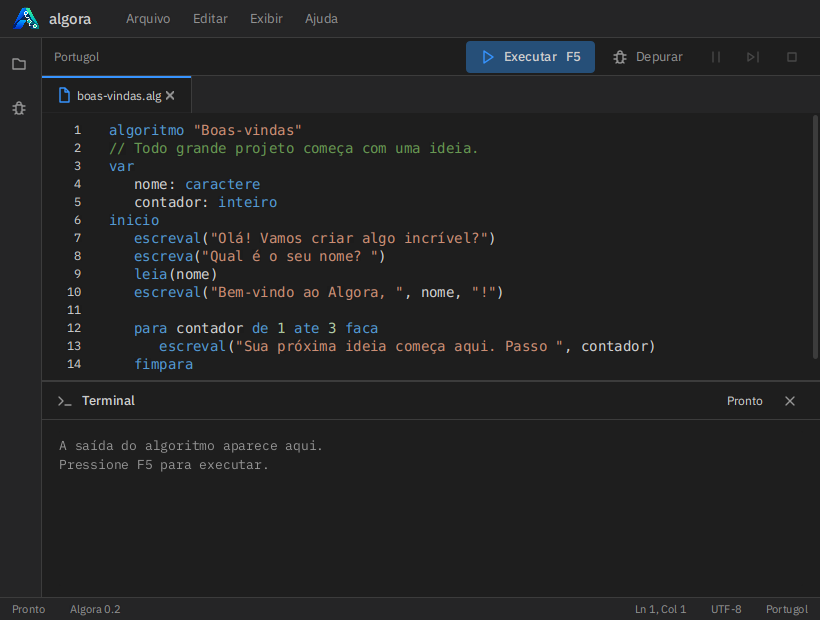
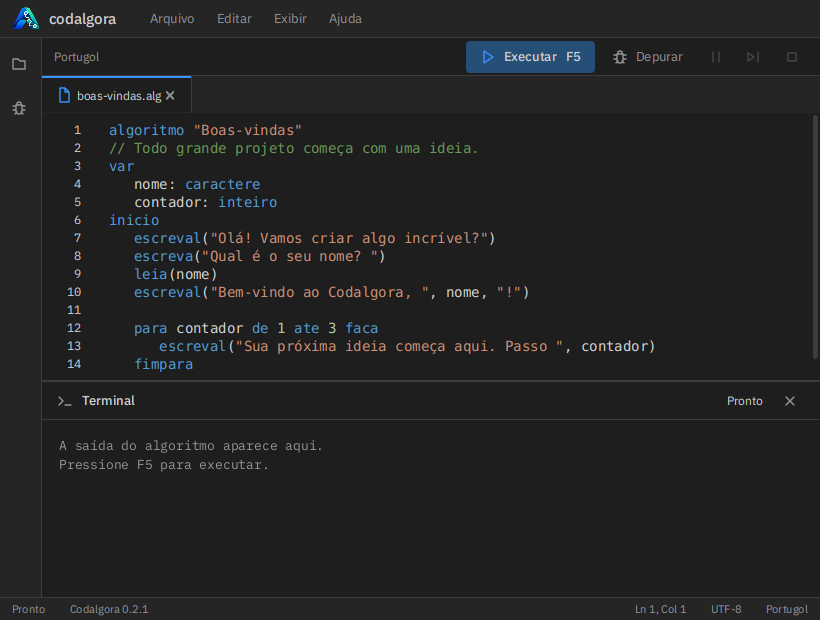
chore(release): finalize Codalgora 0.2.1 distribution assets

Changed region(s): [[0.061, 0.0, 0.4268, 0.0613], [0.3963, 0.4597, 0.6402, 0.4903], [0.0915, 0.9806, 0.1829, 1.0]]

diff --git a/desktop/packaging/create-checksums.py b/desktop/packaging/create-checksums.py
@@ -1,0 +1,21 @@
+"""Write SHA256SUMS.txt for generated installer files in a package directory."""
+
+import hashlib
+import pathlib
+import sys
+
+directory = pathlib.Path(sys.argv[1])
+installers = sorted(
+    path
+    for path in directory.iterdir()
+    if path.is_file() and path.suffix.lower() in {".deb", ".exe", ".msi"}
+)
+if not installers:
+    raise SystemExit(f"No installers found in {directory}")
+
+lines = []
+for installer in installers:
+    digest = hashlib.sha256(installer.read_bytes()).hexdigest()
+    lines.append(f"{digest}  {installer.name}")
+(directory / "SHA256SUMS.txt").write_text("\n".join(lines) + "\n", encoding="ascii")
+print("\n".join(lines))

diff --git a/docs/instalacao.md b/docs/instalacao.md
@@ -1,6 +1,6 @@
 # Instalação e desenvolvimento
 
-O Codalgora usa Java 21, JavaFX 21, ANTLR4 e RichTextFX. O build utiliza Gradle Wrapper com Kotlin DSL; não é necessário instalar Gradle globalmente. A primeira execução precisa de rede para baixar a distribuição e as dependências. Um JDK completo, com `jpackage`, é necessário para gerar pacotes.
+O Codalgora usa Java 21, JavaFX 21, ANTLR4 e RichTextFX. A versão em preparação é 0.2.1; ainda não há instaladores Codalgora dessa versão publicados. A release histórica v0.2.0 contém os instaladores da marca Algora. O build utiliza Gradle Wrapper com Kotlin DSL; não é necessário instalar Gradle globalmente. A primeira execução precisa de rede para baixar a distribuição e as dependências. Um JDK completo, com `jpackage`, é necessário para gerar pacotes.
 
 ## Desenvolvimento
 
@@ -41,7 +41,7 @@ O build, os testes JavaFX e a execução da aplicação nativa com runtime inclu
 
 ## Ícone do aplicativo
 
-Os builds usam o emblema da logo oficial: PNG no Linux e ICO com múltiplas resoluções no Windows. O `jpackage` recebe o ícone tanto na aplicação quanto no instalador; a janela JavaFX também carrega o PNG. Os recursos ficam em `desktop/src/main/resources/io/codalgora/desktop/icons/`.
+Os builds Codalgora usam o emblema atualizado: PNG no Linux e ICO com múltiplas resoluções no Windows. O `jpackage` recebe o ícone tanto na aplicação quanto no instalador; a janela JavaFX carrega o recurso local. Os recursos ficam em `desktop/src/main/resources/io/codalgora/desktop/icons/`. Os instaladores históricos v0.2.0 ainda exibem a identidade Algora.
 
 Se você instalou um pacote anterior com o ícone padrão do Java, baixe o instalador atualizado da release e reinstale o aplicativo. Atalhos antigos criados manualmente podem precisar ser recriados; o ambiente desktop também pode manter o ícone antigo em cache até uma nova sessão.
 
@@ -53,21 +53,21 @@ O atalho distribuído no `.deb` declara `StartupWMClass=io.codalgora.desktop.Cod
 
 O CI instala o `.exe` silenciosamente, verifica o registro por usuário e os atalhos, executa a aplicação instalada e a desinstala. Os logs MSI ficam no artefato `Windows-installer-diagnostics` do workflow. Esse teste não substitui a validação dos diálogos interativos nem identifica problemas específicos de uma máquina sem a mensagem de erro correspondente.
 
-Para gerar um log local de instalação pelo PowerShell, no diretório do download:
+Para diagnosticar a instalação histórica Algora v0.2.0 pelo PowerShell, no diretório do download:
 
 ```powershell
-.\Codalgora-0.2.0.exe /L*v "$env:TEMP\codalgora-install.log"
+.\Algora-0.2.0.exe /L*v "$env:TEMP\algora-install.log"
 ```
 
 
 ### Instalador Windows em execução sem janela
 
-Se o `.exe` baixado ficar em execução sem mostrar a tela de instalação, use o pacote direto `Codalgora-0.2.0.msi` da mesma release. Esse formato evita o executável que extrai um MSI temporário e chama o Windows Installer. Se já houver uma instalação anterior de v0.2.0, remova-a em **Configurações → Aplicativos → Codalgora** antes de reinstalar um pacote revisado da mesma versão.
+Se o `.exe` histórico da v0.2.0 ficar em execução sem mostrar a tela de instalação, use o pacote direto `Algora-0.2.0.msi` da mesma release. Esse formato evita o executável que extrai um MSI temporário e chama o Windows Installer. Os dois instaladores pertencem à identidade Algora e não são os futuros pacotes Codalgora 0.2.1.
 
 O CI verifica a aparição do assistente visível dos dois formatos, cancela esse assistente e executa separadamente a instalação silenciosa, abertura do aplicativo e desinstalação. Capturas das telas, registros dos controles e logs MSI são mantidos no artefato `Windows-installer-diagnostics`.
 
 Para registrar uma falha na abertura do MSI pelo PowerShell:
 
 ```powershell
-msiexec.exe /i "$PWD\Codalgora-0.2.0.msi" /L*v "$env:TEMP\codalgora-msi.log"
+msiexec.exe /i "$PWD\Algora-0.2.0.msi" /L*v "$env:TEMP\algora-msi.log"
 ```

diff --git a/README.md b/README.md
@@ -5,7 +5,7 @@
 ![Java 21](https://img.shields.io/badge/Java-21-007396)
 ![Plataformas: Linux e Windows](https://img.shields.io/badge/plataformas-Linux%20%7C%20Windows-555555)
 
-> **Beta v0.2.1:** o Codalgora está em desenvolvimento ativo e pode apresentar bugs ou comportamentos inesperados. Esta versão oferece edição, execução e depuração de algoritmos em uma interface moderna.
+> **v0.2.1 em preparação:** o Codalgora está em desenvolvimento ativo e pode apresentar bugs ou comportamentos inesperados. A versão oferece edição, execução e depuração de algoritmos em uma interface moderna; seus instaladores ainda não foram publicados.
 
 <p align="center">
   <img src="docs/assets/codalgora-logo.png" alt="Logo do Codalgora" width="320">
@@ -15,7 +15,7 @@
 
 Idealizado e desenvolvido por **Arthur Almeida**, o Codalgora é um projeto pessoal criado para oferecer uma IDE moderna e acessível a estudantes de lógica de programação. Seu objetivo é unir simplicidade, aprendizado e uma experiência de desenvolvimento que acompanhe os primeiros passos na programação.
 
-**Atualmente em fase beta (v0.2.1)**, o projeto continua recebendo melhorias e correções.
+O projeto está em fase beta; a versão v0.2.1 está sendo preparada para distribuição.
 
 O projeto usa **Java 21, JavaFX 21, ANTLR4 e RichTextFX**, com **Gradle Kotlin DSL**, testes **JUnit 5** e distribuição nativa via **jpackage**.
 

diff --git a/docs/verificacao.md b/docs/verificacao.md
@@ -70,7 +70,7 @@ O [workflow 39535004943](https://github.com/thurdass/Algora/actions/runs/3953500
 
 A automação inicial via UI Automation não detectava corretamente as janelas MSI; a verificação passou a usar janelas e controles Win32. O encerramento precisou acionar o botão Cancel, em vez de depender apenas de WM_CLOSE. Essas falhas foram do teste, não demonstraram defeito nos instaladores. As capturas finais mostram os dois assistentes; a falha específica da máquina Windows 11 do usuário não foi reproduzida no runner Windows Server 2025. O MSI direto fornece uma alternativa que evita o executável intermediário, sem atribuir uma causa não confirmada ao ambiente do usuário.
 
-![Assistente MSI capturado no Windows do CI](assets/algora-installer-windows.png)
+![Captura histórica do assistente MSI Algora v0.2.0 no Windows do CI](assets/algora-installer-windows-v0.2.0.png)
 
 ### Rebranding para Codalgora
 
